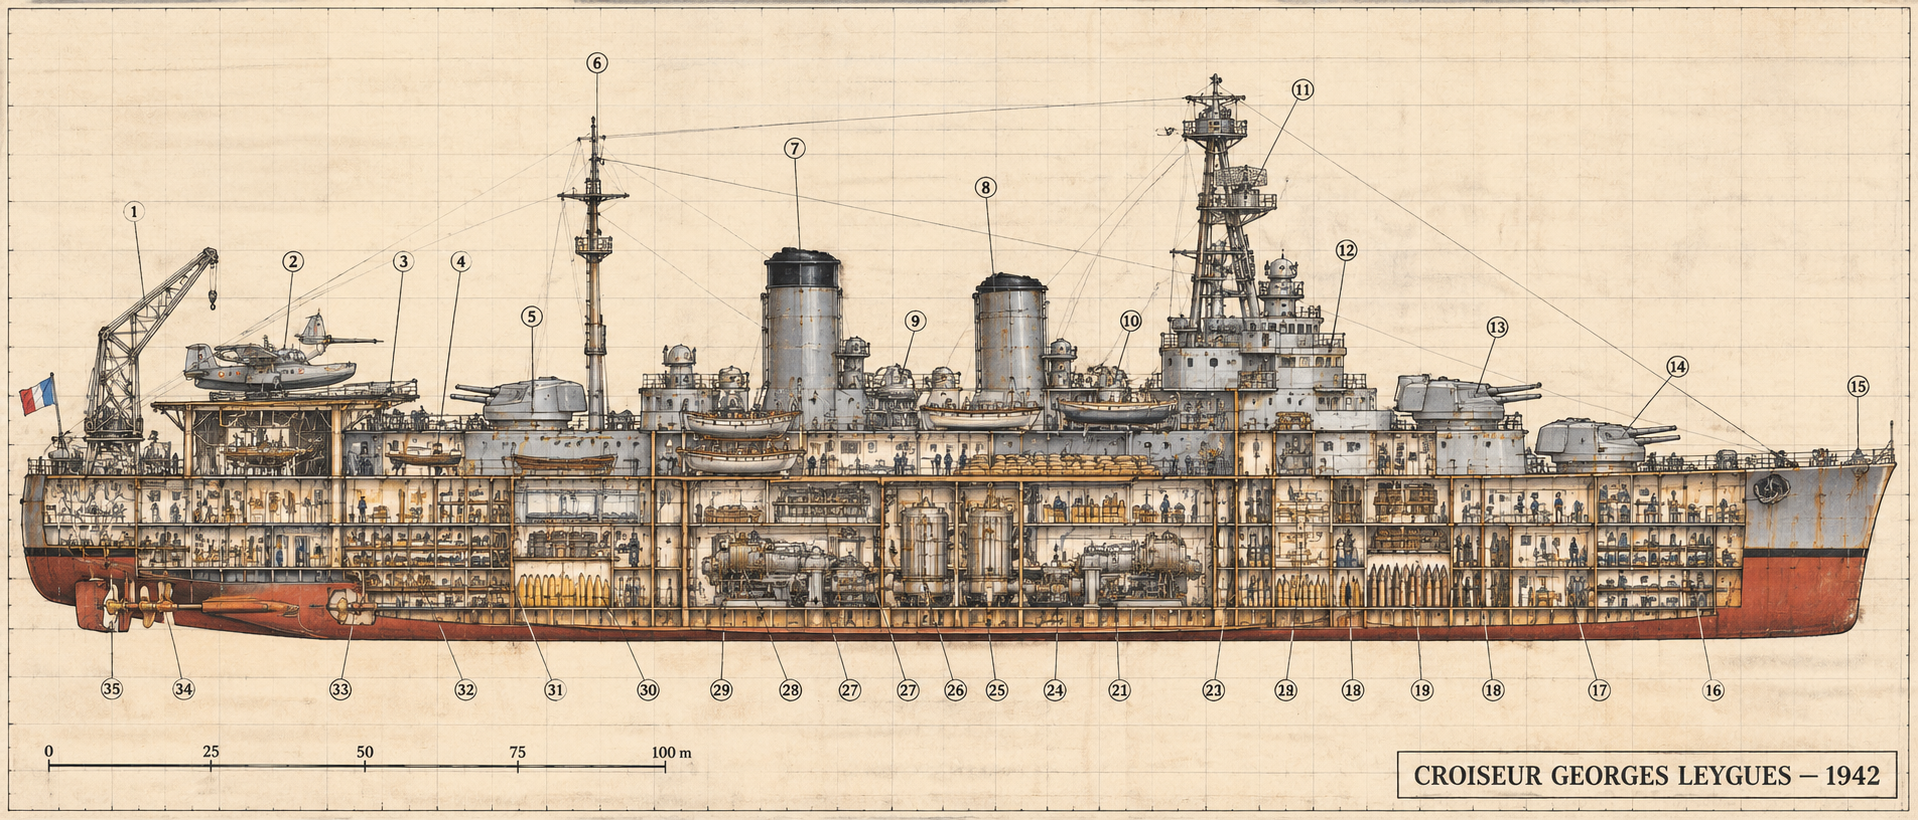
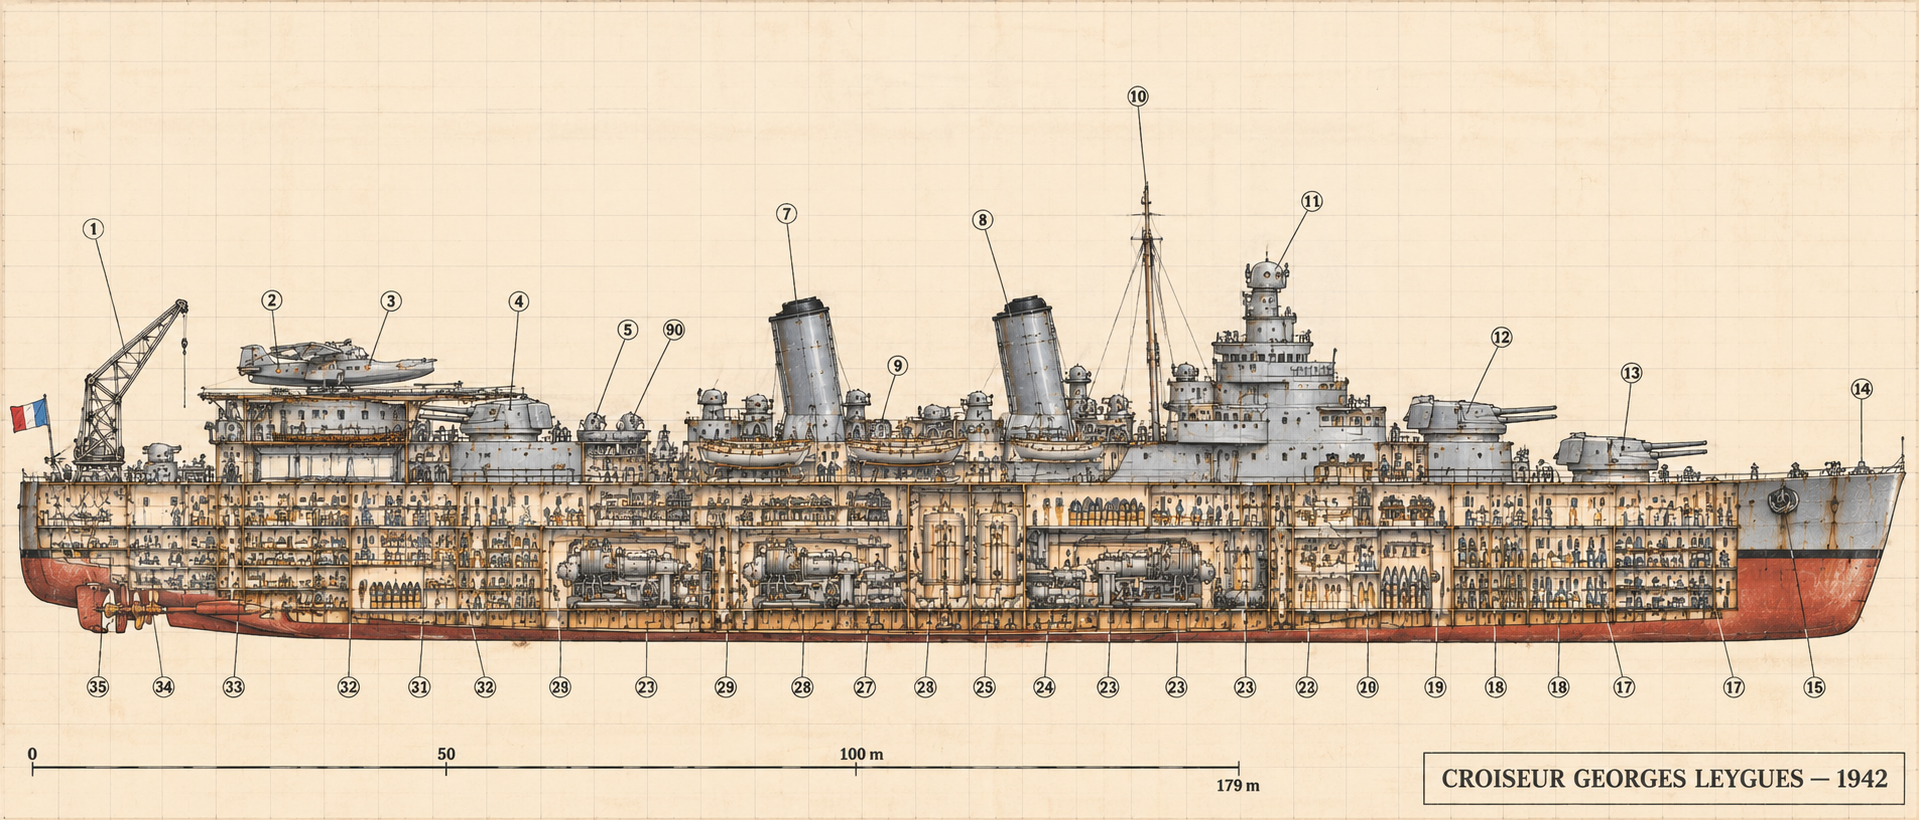
Chapitre 36 : nouvelle version du plan de coupe du Georges Leygues (légende et écarts refaits)

diff --git a/36-expedition-de-la-manche.md b/36-expedition-de-la-manche.md
@@ -74,31 +74,28 @@ Depuis juillet 1940, les équipages français vivent sans nouvelles. **L'appel d
 
 ![Plan de coupe du croiseur Georges Leygues en 1942 : vue de profil, coque ouverte, de la grue arrière à l'étrave, l'hydravion Loire 130 sur l'arrière](illustrations/georges-leygues-1942-coupe.png)
 
-*Plan de coupe du* Georges Leygues *(classe* La Galissonnière*) à l'été 1942, navire-base de l'expédition de la Manche, dans le même style que celui du* Volta. *L'arrière est à gauche, l'avant à droite. Sur l'arrière, le Loire 130 de Tom Penhallow et sa grue ; sur le pont, au milieu, les sacs de grain.*
+*Plan de coupe du* Georges Leygues *(classe* La Galissonnière*) à l'été 1942, navire-base de l'expédition de la Manche, dans le même style que celui du* Volta. *L'arrière est à gauche, l'avant à droite. Sur l'arrière, le Loire 130 de Tom Penhallow et sa grue.*
 
 **Légende** (d'après l'image) :
 
 | N° | Arrière et aviation | N° | Superstructures et armes | N° | Coque, machines et soutes |
 |---|---|---|---|---|---|
-| 1 | **Grue de l'hydravion**, sur la plage arrière | 7 – 8 | Cheminées arrière et avant | 16 – 17 | Puits aux chaînes, postes de l'équipage avant |
-| 2 | **Le Loire 130**, sur le toit du hangar | 9 – 10 | Affûts doubles de 90 mm contre avions, entre les cheminées | 18 – 19 | Soutes à munitions et magasins avant, sous les tourelles (numéros en double sur l'image) |
-| 3 | Plateforme de l'hydravion et **hangar** (ateliers d'aviation) | 11 | Mât de misaine et direction de tir | 21, 23 | Poste central et transmissions, sous la passerelle |
-| 4 | Pont arrière, embarcations | 12 | Passerelle | 24 – 27 | **Chaufferies** : chaudières à tubes d'eau au mazout, auxiliaires |
-| 5 | Tourelle arrière | 13 – 14 | Tourelles avant, superposées | 28 | **Salles des machines** : turbines à engrenages, réducteurs |
-| 6 | Grand mât | 15 | Étrave et ancre | 29 – 30 | Soutes à mazout du double fond, arbres d'hélice |
-| | | | | 31 | Soute à munitions arrière |
-| | | | | 32 | Logements des officiers, infirmerie |
-| | | | | 33 – 35 | Presse-étoupe, hélices, gouvernail |
+| 1 | **Grue de l'hydravion**, sur la plage arrière | 5 et « 90 » | Affûts doubles de 90 mm contre avions | 15, 17 | Écubier et ancre ; postes de l'équipage avant |
+| 2 | **Le Loire 130** | 7 – 8 | Cheminées arrière et avant | 18 – 20 | Soutes à munitions et magasins avant, sous les tourelles |
+| 3 | Plateforme de l'hydravion, au-dessus du **hangar** et des ateliers d'aviation | 9 | Embarcations et affûts entre les cheminées | 22 – 24 | Poste central, transmissions, magasins et auxiliaires |
+| 4 | Tourelle arrière | 10 | Mât de misaine | 25, 27 | **Chaufferies** : chaudières à tubes d'eau au mazout |
+| | | 11 | Tour de passerelle et direction de tir | 28 – 29 | **Salles des machines** : turbines à engrenages, réducteurs, condenseurs |
+| | | 12 – 13 | Tourelles avant, superposées | 31 – 32 | Soute à munitions arrière ; logements des officiers et infirmerie |
+| | | 14 | Mât de pavillon de beaupré | 33 – 35 | Arbres et presse-étoupe, hélices, gouvernail |
 
 **Écarts de l'image au canon et à l'histoire** :
-- **Les tourelles sont doubles** : l'image montre trois tourelles de **deux** canons. Le navire réel porte **neuf canons de 152 mm en trois tourelles triples** [histoire].
-- **L'hydravion** est posé sur le toit du hangar, sans catapulte visible. Dans le navire réel, la **catapulte est sur le toit de la tourelle arrière** et la grue reprend l'appareil à la mer [histoire 🔎 : place exacte du hangar]. Les ailes sont déployées, et non repliées. L'appareil est bien un **hydravion à coque**, moteur au-dessus de l'aile.
-- **Le mât de misaine** est une tour en treillis ; le navire réel a une **tour de passerelle et un mât tripode** [histoire 🔎].
-- **Les cheminées** sont droites et massives, et non inclinées.
-- **L'échelle est fausse** : la règle de 100 m donne un navire d'environ 300 m, alors qu'il mesure **179 m** [histoire].
-- **Les chaufferies** : on ne voit que deux chaudières, au lieu de quatre ; les **tubes lance-torpilles** (deux affûts triples) manquent ; les affûts de 90 mm sont fermés, alors qu'ils étaient ouverts.
-- **La numérotation** : 18, 19 et 27 sont en double, 20 et 22 manquent.
-- **Conformes au canon** : les **sacs de grain** sur le pont, les embarcations supplémentaires, la peinture rouillée, la grue arrière, le pavillon national, la ceinture cuirassée à la flottaison.
+- **L'hydravion** est posé sur une plateforme au-dessus du hangar et de la tourelle arrière, sans catapulte visible. Dans le navire réel, la **catapulte est sur le toit de la tourelle arrière** et la grue reprend l'appareil à la mer [histoire 🔎 : place exacte du hangar]. Les ailes sont déployées, et non repliées. L'appareil est bien un **hydravion à coque**.
+- **Les tourelles** montrent deux canons de profil ; le navire réel porte **trois tourelles triples de 152 mm** [histoire]. Sur une vue de profil stricte, les tubes se cachent l'un l'autre : l'écart est tolérable.
+- **L'échelle reste fausse** : la règle marque 179 m bien avant l'étrave, et le navire dessiné mesure environ 280 m à cette échelle.
+- **Le mât de misaine** est un mât simple, et non un **tripode** [histoire 🔎] ; les cheminées sont plus massives que dans le navire réel.
+- **Les chaufferies** : on ne voit que deux chaudières, au lieu de quatre ; les **tubes lance-torpilles** (deux affûts triples) manquent.
+- **La numérotation** : 17, 18, 28, 29 et 32 sont en double, 23 l'est cinq fois ; 6, 16, 21, 26 et 30 manquent ; un repère porte « 90 » (le calibre des affûts, pris pour un numéro).
+- **Conformes au canon** : la tour de passerelle pleine, les cheminées inclinées, les embarcations supplémentaires, la peinture rouillée, la grue arrière, le pavillon national, la ceinture cuirassée à la flottaison.
 
 ### 3.1 L'essence de l'hydravion
 
